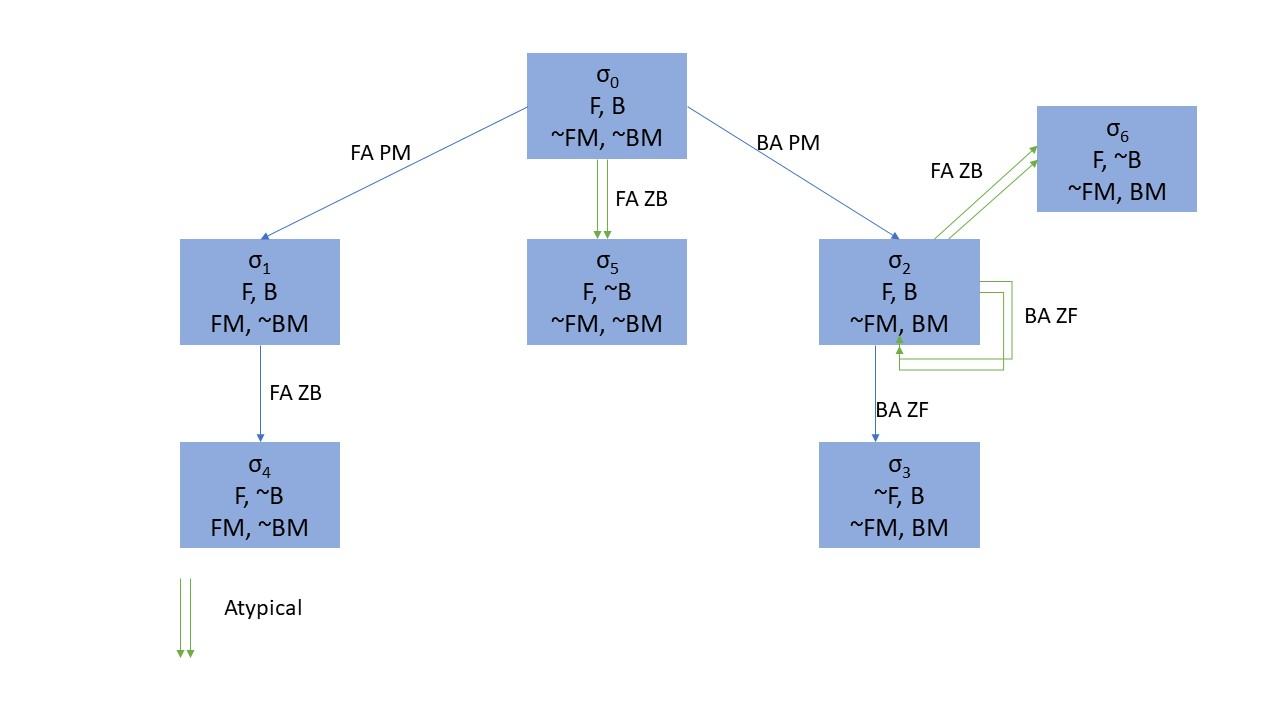
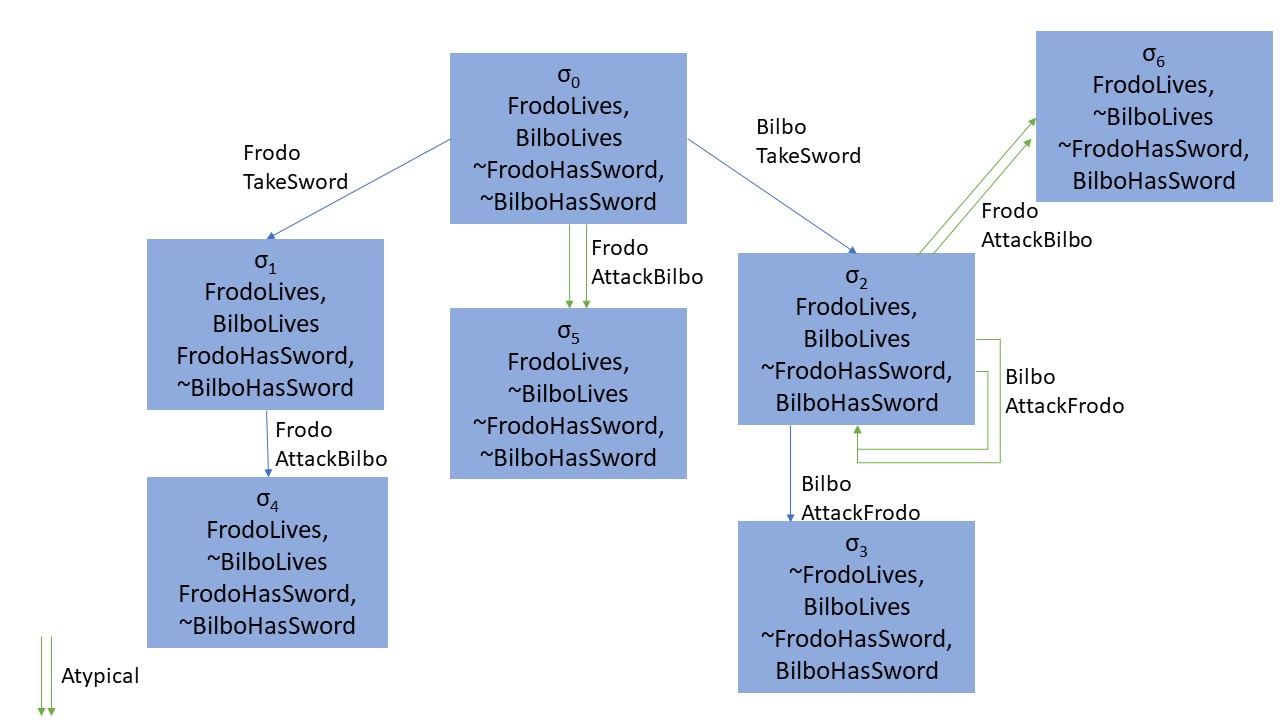
Drobne poprawki w zapisie w przykładzie

Changed region(s): [[0.1875, 0.0306, 1.0, 0.9778], [0.0312, 0.3056, 0.3125, 1.0], [0.5625, 0.1528, 0.6562, 0.2444]]

diff --git a/docs/documentation.tex b/docs/documentation.tex
@@ -476,29 +476,37 @@
     
     System dynamiczny opisujący powyższą sytuację posiada:
     \begin{itemize}
-    \item zbiór agentów: $\Omega$ = \{FA, BA\} - Frodo, Bilbo
-    \item zbiór akcji: $A_c$ = \{PM, ZF, ZB\} - ''Podnieś miecz'', ''Zaatakuj Froda'', ''Zaatakuj Bilba''
-    \item zbiór fluentów: $\mathcal{F}$ = \{F, B, FM, BM\} - Frodo żyje, Bilbo żyje, Frodo trzyma miecz, Bilbo trzyma miecz
+    \item zbiór agentów: $\Omega$ = \{Frodo, Bilbo\}
+    \item zbiór akcji: $A_c$ = \{Take Sword, AttackFrodo, AttackBilbo\}
+    \item zbiór fluentów: $\mathcal{F}$ = \{FrodoLives, BilboLives, FrodoHasSword, BilboHasSword\}
     \item zbiór stanów: $\Sigma$ = \{\\
-    	$\sigma_0$ = \{F, B, $\neg$FM, $\neg$BM\},\\
-    	$\sigma_1$ = \{F, B, FM, $\neg$BM\},\\
-    	$\sigma_2$ = \{F, B, $\neg$FM, BM\},\\
-    	$\sigma_3$ = \{$\neg$F, B, $\neg$FM, BM\},\\
-    	$\sigma_4$ = \{F, $\neg$B, FM, $\neg$BM\},\\
-    	$\sigma_5$ = \{F, $\neg$B, $\neg$FM, $\neg$BM\},\\
-    	$\sigma_6$ = \{F, $\neg$B, $\neg$FM, BM\}\\
+    	$\sigma_0$ = \{FrodoLives, BilboLives, $\neg$FrodoHasSword, $\neg$BilboHasSword\},\\
+    	$\sigma_1$ = \{FrodoLives, BilboLives, FrodoHasSword, $\neg$BilboHasSword\},\\
+    	$\sigma_2$ = \{FrodoLives, BilboLives, $\neg$FrodoHasSword, BilboHasSword\},\\
+    	$\sigma_3$ = \{$\neg$FrodoLives, BilboLives, $\neg$FrodoHasSword, BilboHasSword\},\\
+    	$\sigma_4$ = \{FrodoLives, $\neg$BilboLives, FrodoHasSword, $\neg$BilboHasSword\},\\
+    	$\sigma_5$ = \{FrodoLives, $\neg$BilboLives, $\neg$FrodoHasSword, $\neg$BilboHasSword\},\\
+    	$\sigma_6$ = \{FrodoLives, $\neg$BilboLives, $\neg$FrodoHasSword, BilboHasSword\}\\
     \}.
     \end{itemize}
-    Ponadto w języku znajdują się następujące zdania:
+    Mamy następującą historię:
     
     \begin{center}
-    $\mathbf{initially}$ F $\wedge$ B $\wedge$ $\neg$FM $\wedge$ $\neg$BM\\
-    $\mathbf{when}$ FA PM $\mathbf{causes}$ FM $\mathbf{if}$ $\neg$BM\\
-    $\mathbf{impossible}$ FA ZF\\
-    $\mathbf{impossible}$ BA ZB\\
-    ZF $\mathbf{typically} ~ \mathbf{causes}~\neg$F $\mathbf{if}$ BM\\
-    ZB $\mathbf{causes}~\neg$B $\mathbf{if}$ FM\\
-    $\mathbf{observable}~\neg$B $\mathbf{after}$ ZB\\
+    $\mathbf{initially}$ FrodoLives $\mathbf{and}$ BilboLives $\mathbf{and}$ $\mathbf{not}$ FrodoHasSword $\mathbf{and}$ $\mathbf{not}$ BilboHasSword\\
+    
+    $\mathbf{when}$ Frodo TakeSword $\mathbf{causes}$ FrodoHasSword $\mathbf{if}$ $\mathbf{not}$ BilboHasSword\\
+    
+    $\mathbf{when}$ Bilbo TakeSword $\mathbf{causes}$ BilboHasSword $\mathbf{if}$ $\mathbf{not}$ FrodoHasSword\\
+    
+    $\mathbf{impossible}$ Frodo AttackFrodo\\
+    
+    $\mathbf{impossible}$ Bilbo AttackBilbo\\
+    
+    AttackFrodo $\mathbf{typically} ~ \mathbf{causes~not}$ FrodoLives $\mathbf{if}$ BilboHasSword\\
+    
+    AttackBilbo $\mathbf{causes~not}$ BilboLives $\mathbf{if}$ FrodoHasSword\\
+    
+    $\mathbf{observable~not}$ BilboLives $\mathbf{after}$ AttackBilbo\\ $\mathbf{if~not}$ FrodoHasSword
     \includegraphics[width=\textwidth]{resources/graf.jpg} 
     \end{center}
  
